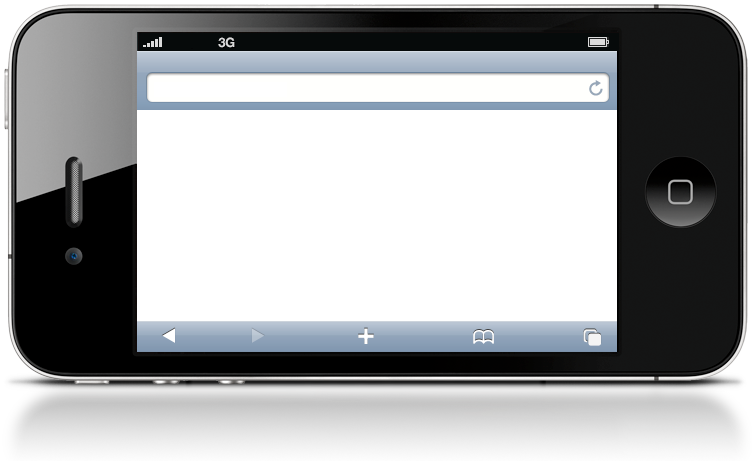
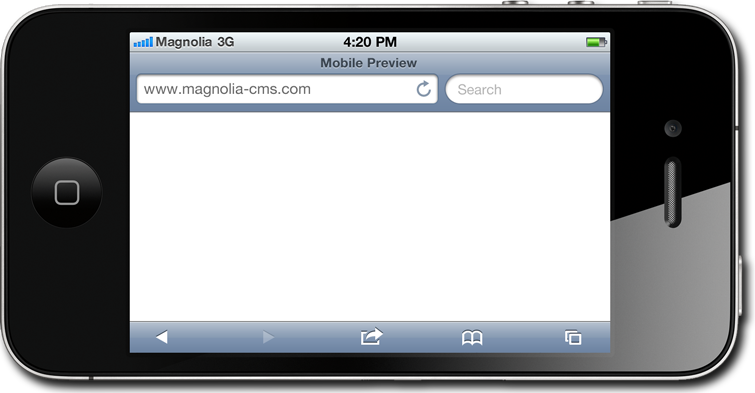
Mobile preview: new image for smartphone landscape preview
git-svn-id: file:///home/migrator/subversion-migration/svn-repo-copy/community/magnolia/trunk@53879 a15fbcf9-bee4-0310-bafe-d02d26ad3b5f

diff --git a/magnolia-templating-editor/src/main/resources/mgnl-resources/magnolia-templating-editor/css/editor.css b/magnolia-templating-editor/src/main/resources/mgnl-resources/magnolia-templating-editor/css/editor.css
@@ -338,8 +338,8 @@ button.mgnlEditorButton:active {
 
 .mobilePreview.smartphoneLandscape .popupContent {
   position: absolute;
-  top: 111px;
-  left: 137px;
+  top: 112px;
+  left: 130px;
   width: 480px;
   height: 210px;
 }
